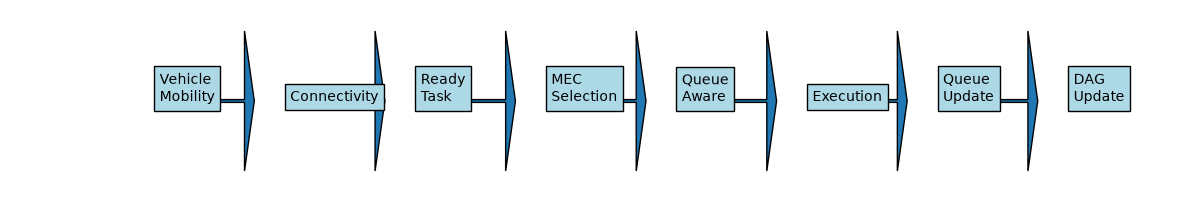
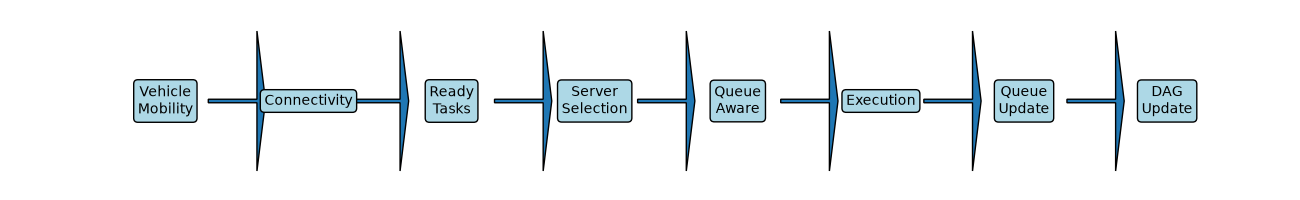
Working queue-aware DAG scheduler

Changed region(s): [[0.0925, 0.15, 0.9558, 0.84]]

diff --git a/src/architecture.py b/src/architecture.py
@@ -1,39 +1,58 @@
 import matplotlib.pyplot as plt
 
 steps = [
-'Vehicle\nMobility',
-'Connectivity',
-'Ready\nTask',
-'MEC\nSelection',
-'Queue\nAware',
-'Execution',
-'Queue\nUpdate',
-'DAG\nUpdate'
+
+    "Vehicle\nMobility",
+
+    "Connectivity",
+
+    "Ready\nTasks",
+
+    "Server\nSelection",
+
+    "Queue\nAware",
+
+    "Execution",
+
+    "Queue\nUpdate",
+
+    "DAG\nUpdate"
+
 ]
 
-fig, ax = plt.subplots(figsize=(12,2))
+fig, ax = plt.subplots(
+    figsize=(13,2)
+)
 
-for i,s in enumerate(steps):
+for i, step in enumerate(steps):
 
     ax.text(
         i,
         0,
-        s,
-        bbox=dict(facecolor='lightblue')
+        step,
+        ha="center",
+        va="center",
+        bbox=dict(
+            boxstyle="round",
+            facecolor="lightblue"
+        )
     )
 
     if i < len(steps)-1:
 
         ax.arrow(
-            i+0.25,
+            i+0.3,
             0,
             0.4,
             0,
-            head_width=0.05
+            head_width=0.04,
+            length_includes_head=True
         )
 
-ax.axis('off')
+ax.axis("off")
 
 plt.savefig(
-'results/architecture.png'
+    "results/architecture.png"
 )
+
+print("Architecture saved")

diff --git a/src/dag_visual.py b/src/dag_visual.py
@@ -4,21 +4,35 @@ import matplotlib.pyplot as plt
 G = nx.DiGraph()
 
 G.add_edges_from([
-("T1","T2"),
-("T1","T3"),
-("T2","T4"),
-("T3","T4"),
-("T4","T5")
+    ("T1","T2"),
+    ("T1","T3"),
+    ("T2","T4"),
+    ("T3","T4"),
+    ("T4","T5")
 ])
 
 plt.figure(figsize=(6,4))
 
-nx.draw(
+pos = nx.spring_layout(
     G,
-    with_labels=True,
-    node_size=3000
+    seed=42
 )
 
-plt.savefig("results/dag.png")
+nx.draw(
+    G,
+    pos,
+    with_labels=True,
+    node_size=3000,
+    node_color="skyblue",
+    arrows=True
+)
+
+plt.title(
+    "DAG Task Structure"
+)
+
+plt.savefig(
+    "results/dag.png"
+)
 
 print("DAG saved")
